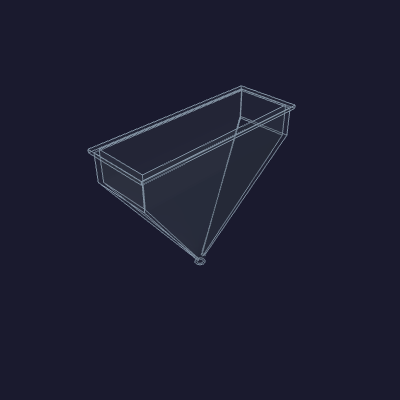
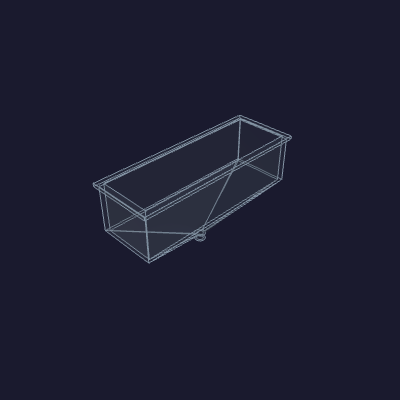
lite: repack to less-X/more-Y, 514 mL funnel, fixes; drop lite coupons
Resolves the feedback on the repack:
  * Funnel: was a 603 mL cone whose ramp plunged 115 mm toward the floor. Now a
    tall vertical chute + a SHORT 35 mm ramp necking to a centered spout that
    exits high (z211, well above the low short trays); a flex tube carries the
    pour down to V-B. 514 mL buffer (>440 mL), only 89 mm tall.
  * Coupons: removed from Lite entirely (enclosure.py + STEP/PNG files) — the
    Kitchen coupons cover the shared split/boss mating geometry.
  * The +X dead strip is gone: the hopper +X edge now runs flush to the top-right
    corner pod (1 mm gap, was 8.5 mm).
  * Reservoir sits wholly inside (5 mm to the inner back wall) — the earlier
    "sticking out" was a stale STEP from the crashed coupon regen.

Layout (unchanged from the checkpoint, now consistent): side column gone —
source-select + the two pump ASSEMBLIES (elbow version) stand in the front zone,
power tray beside the reservoir on +X. Box 238x255 -> 215.5 x 345.1 x 305:
X -22, Y +90, the less-X/more-Y trade. front∩back=0, both halves fit the bed,
zero content clashes, funnel clears content + shell. Docs resynced.

Changed region(s): [[0.21, 0.21, 0.75, 0.66]]

diff --git a/pie-in-the-sky/lite/printed-parts/funnel/funnel.py b/pie-in-the-sky/lite/printed-parts/funnel/funnel.py
@@ -46,20 +46,20 @@ import enclosure as E
 brim_overhang = 3.0     # brim flange reach past the opening, all around
 brim_thickness = 3.0    # flange thickness, resting on the enclosure top
 collar_wall = 3.0       # straight press-fit collar wall (opening − bore)
-chute_h = 30.0          # straight rectangular chute height — brim top down to the ramp
-                        # start. Leaves the rest of the drop for a real funnel ramp.
-neck_dx = 0.0           # spout centered under the opening — nothing below the mouth
-                        # to dodge (only the front bag-circuit lid), so no offset
+chute_h = 48.0          # tall straight vertical chute below the brim — vertical
+                        # walls, the bulk of the pour buffer (not a deep cone).
+ramp_h = 35.0           # SHORT ramp from the chute bottom necking to the spout —
+                        # kept shallow so the funnel sits in the top of the box
+                        # instead of plunging a long cone toward the floor.
+neck_dx = 0.0           # spout centered under the opening
 spout_id = 6.35         # 1/4" outlet bore
 spout_wall = 2.0        # spout wall at the tip
-spout_tube = 6.0        # straight spout tube below the ramp tip — its length sets
-                        # how far the Ø6.35 exit drops toward V-B
+spout_tube = 6.0        # straight spout tube below the ramp neck (the barb stub)
 tip_clearance = 1.0     # gap left above the tallest content under the mouth
-# The spout exits into the open air ABOVE the front trays (the whole mouth
-# footprint has content under it — the front bag-circuit lid — so there is no
-# clear column to drop into, unlike the Kitchen). Leave room below the exit for a
-# tube/barb fitting and the flex-tube run back to V-B — but not so much that the
-# ramp is squeezed out.
+# The spout exits HIGH above the content (the chute + short ramp set its height);
+# a flexible tube then carries the Ø6.35 exit the rest of the way down to V-B. This
+# gap is only the minimum the exit must keep clear of whatever sits beneath the
+# mouth — a sanity floor, not the thing that places the spout.
 spout_fitting_gap = 8.0
 
 
@@ -112,16 +112,21 @@ def build():
     top_z = oz1 + brim_thickness                       # brim top = outermost point
     spout_or = spout_id / 2.0 + spout_wall
     ncx = cx + neck_dx                                 # spout/neck, shifted in X
-    ramp_top_z = top_z - chute_h                        # straight chute bottom = ramp start
 
-    # The ramp necks to the round spout, whose straight tube exits a fitting-gap
-    # above the tallest content under the mouth (read live), leaving open air for a
-    # tube/barb to attach; a flexible tube then carries the Ø6.35 exit on toward V-B.
-    end_z = _content_top(x0, x1, y0, y1) + spout_fitting_gap
-    neck_z = end_z + spout_tube            # the round neck, one tube-length up
+    # Top-down: brim, tall vertical chute, SHORT ramp necking to the centered
+    # spout, short spout tube. The spout exits high (set by chute_h + ramp_h, not
+    # by the content), so the funnel stays in the top of the box; a flex tube
+    # carries the pour down to V-B.
+    ramp_top_z = top_z - chute_h           # straight chute bottom = ramp start
+    neck_z = ramp_top_z - ramp_h           # ramp bottom = round spout neck
+    end_z = neck_z - spout_tube            # spout exit
+    floor = _content_top(x0, x1, y0, y1) + spout_fitting_gap
+    assert end_z >= floor, (
+        f"funnel spout z={end_z:.0f} below content clearance {floor:.0f} — "
+        "raise chute_h/ramp_h or lower the content beneath the mouth")
 
-    # Outer: brim flange, a tall straight rectangular chute, a shallow ramp down to
-    # the +X-offset spout, straight spout tube.
+    # Outer: brim flange, a tall straight rectangular chute, a short ramp down to
+    # the centered spout, straight spout tube.
     solid = (
         _box(w + 2.0 * brim_overhang, d + 2.0 * brim_overhang, oz1, top_z, cx, cy)
         .fuse(_box(w, d, ramp_top_z, oz1, cx, cy))

diff --git a/pie-in-the-sky/lite/enclosure/enclosure.py b/pie-in-the-sky/lite/enclosure/enclosure.py
@@ -326,8 +326,8 @@ def _hopper_hole(inner, outer):
     x1 = pod_in - 1.0                                        # flush to the top-right corner pod
     x0 = ox0 + display_facet_x + wall                        # just past the facet gusset
     bag = _contents.build()["bag-circuit"][0].BoundingBox()
-    if bag.xmax + 3.0 < x1:                                  # clear the tall bag tray when it falls in span
-        x0 = max(x0, bag.xmax + 3.0)                         # (skipped on the reduced coupon box)
+    if bag.xmax + 3.0 < x1:                                  # clear the tall bag tray when it
+        x0 = max(x0, bag.xmax + 3.0)                         # falls within the opening span
     _a, _n, _o, dy, _dz = _facet_geom(outer)
     y_joint = max(oy0 + dy + display_facet_thickness * math.sqrt(2.0) + 2.0, split_y)
     y1 = y_joint - wall - 2.0                                # just in front of the seam lip
@@ -492,19 +492,6 @@ def _y_boss(y_joint):
     return y_joint + plug_dia / 2.0
 
 
-def coupon_dims():
-    """Dims for the front-half test-print coupon — a reduced-size box carrying
-    every feature (display housing, telescoping lip, the four corner bosses, the
-    full-depth ribs) at full size."""
-    ix0, ix1 = 0.0, 150.0          # facet 119.5 flush-left, right boss clear
-    iy0, iy1 = 0.0, 122.0          # back coupon's depth behind the joint
-    iz0, iz1 = 0.0, 110.0
-    y_joint = 85.0                 # lip + rear bosses sit behind the housing
-    inner = (ix0, ix1, iy0, iy1, iz0, iz1)
-    outer = (ix0 - wall, ix1 + wall, iy0 - wall, iy1 + wall, iz0 - wall, iz1 + wall)
-    return inner, outer, y_joint, None
-
-
 def build_front_half(dims=None):
     inner, outer, y_joint, _ = dims if dims is not None else _dims()
     shell = _shell_with_facet(inner, outer).val()
@@ -606,26 +593,14 @@ def main():
     assy.add(front, name="enclosure_front", color=cq.Color(0.80, 0.84, 0.90))
     assy.add(back, name="enclosure_back", color=cq.Color(0.70, 0.74, 0.82))
 
-    coupon = build_front_half(coupon_dims())
-    coupon_back = build_back_half(coupon_dims())
-
     export_step(front, str(_here.parent / "enclosure-front.step"))
     export_step(back, str(_here.parent / "enclosure-back.step"))
     export_assembly(assy, str(_here.parent / "enclosure.step"))
-    export_step(coupon, str(_here.parent / "enclosure-front-coupon.step"))
-    export_step(coupon_back, str(_here.parent / "enclosure-back-coupon.step"))
     print("-> enclosure-front.step")
     print("-> enclosure-back.step")
     print("-> enclosure.step (assembled halves)")
-    print("-> enclosure-front-coupon.step (test print)")
-    print("-> enclosure-back-coupon.step (test print)")
     _report_facet(front)
     _report_split(front, back)
-    for tag, c in (("front coupon", coupon), ("back coupon", coupon_back)):
-        b = c.val().BoundingBox()
-        print(f"  {tag}:     {b.xlen:.0f}×{b.ylen:.0f}×{b.zlen:.0f} mm, {len(c.val().Solids())} solid")
-    cpair = coupon.val().intersect(coupon_back.val()).Volume()
-    print(f"  coupon ∩:         {cpair:.1f} mm³  ({'CLEAR slip-fit' if cpair < 5 else 'INTERFERENCE'})")
 
     inner, outer, _yj, _cf = _dims()
     ox0, ox1, oy0, oy1, oz0, oz1 = outer

diff --git a/pie-in-the-sky/lite/assembly.md b/pie-in-the-sky/lite/assembly.md
@@ -44,11 +44,11 @@ Unlike the carbonator and Kitchen-reservoir float rods, this is a **tool-free ha
 
 ### 3. Build and stack the valve manifold
 
-Assemble the four manifold trays — source-select, bag-circuit, bib-gate, nozzle-gate — the same tray assemblies as the Kitchen build ([`valve-manifold/`](/hardware/printed-parts/valve-manifold/)), populated with the Beduan solenoids and John Guest dividers / tees / stem-barbs from [`lite-bom.md`](/pie-in-the-sky/lite/lite-bom.md). Stack bib-gate and nozzle-gate flat in the front-left corner under the display, lay bag-circuit flat across the front-zone top, and stand source-select vertical in the +X column beside the reservoir (under the hopper), per [`_contents.py`](/pie-in-the-sky/lite/enclosure-assembly/_contents.py).
+Assemble the four manifold trays — source-select, bag-circuit, bib-gate, nozzle-gate — the same tray assemblies as the Kitchen build ([`valve-manifold/`](/hardware/printed-parts/valve-manifold/)), populated with the Beduan solenoids and John Guest dividers / tees / stem-barbs from [`lite-bom.md`](/pie-in-the-sky/lite/lite-bom.md). All four stand vertical (long axis up) in the front zone ahead of the reservoir: source-select and bag-circuit side by side in the back band against the split, bib-gate and nozzle-gate nose-to-tail in the front-right under the hopper, kept low so the funnel above clears a tall chute — per [`_contents.py`](/pie-in-the-sky/lite/enclosure-assembly/_contents.py).
 
 ### 4. Mount the pumps
 
-Seat the two Kamoer KPHM400 pumps in their printed cases, stacked one above the other in the back of the +X column behind source-select (the +Y space the reservoir does not reach) — keeping them off the front zone so the cabinet stays narrow. They are reached by separating the back half / lifting source-select, per [`_contents.py`](/pie-in-the-sky/lite/enclosure-assembly/_contents.py).
+Seat the two Kamoer KPHM400 pumps (the full pump assemblies, with their 90° outlet elbows) stacked one above the other in the front-left of the front zone, turned a quarter-turn so the elbow span runs in X and the shallower depth in Y — a single narrow footprint, the long trays standing just behind them. Per [`_contents.py`](/pie-in-the-sky/lite/enclosure-assembly/_contents.py).
 
 ### 5. Plumb the flavor circuit
 
@@ -56,11 +56,11 @@ Run the clear-PVC and LLDPE lines per [`fluid-topology-manifold.mmd`](/pie-in-th
 
 ### 6. Mount the funnel
 
-Drop the funnel into the top-wall opening to the right of the display — brim resting on the lid, collar press-fit in the opening — its spout necking above the front trays, where a short flexible tube carries the pour back to V-B on source-select (the spout does not land on V-B directly, same as the Kitchen hopper). Geometry: [`funnel/README.md`](/pie-in-the-sky/lite/printed-parts/funnel/README.md).
+Drop the funnel into the narrow-X, deep-Y top-wall slot to the right of the display — brim resting on the lid, collar press-fit in the opening. Its tall chute holds the pour buffer; a short ramp necks to a centered spout that exits high above the short trays, where a flexible tube carries the pour down to V-B on source-select (the spout does not land on V-B directly, same as the Kitchen hopper). Geometry: [`funnel/README.md`](/pie-in-the-sky/lite/printed-parts/funnel/README.md).
 
 ### 7. Wire the electronics
 
-Mount the 12 V supply + AC distribution on the [power tray](/pie-in-the-sky/lite/printed-parts/electronics/power-tray/) (Mean Well PSU + Wagos + ground stack, no relay) — it stands vertical as a side-wall panel in the front-left corner. Mount the ESP32, MCP23017 expander, ULN2803A drivers, and motor driver, and wire everything to the two pumps, the manifold solenoids, the Waveshare 4.3″ config display, and the air switch — the same parts family and dispense logic as the main appliance, minus every sensor the Lite omits (no level reeds, no moisture telltale). The logic/driver-board tray is still undesigned (see Open items).
+Mount the 12 V supply + AC distribution on the [power tray](/pie-in-the-sky/lite/printed-parts/electronics/power-tray/) (Mean Well PSU + Wagos + ground stack, no relay) — it stands vertical beside the reservoir on the +X side, the one part thin enough to share the reservoir's depth band, its 40.5 mm depth all it costs in width. Mount the ESP32, MCP23017 expander, ULN2803A drivers, and motor driver, and wire everything to the two pumps, the manifold solenoids, the Waveshare 4.3″ config display, and the air switch — the same parts family and dispense logic as the main appliance, minus every sensor the Lite omits (no level reeds, no moisture telltale). The logic/driver-board tray is still undesigned (see Open items).
 
 ### 8. Install the faucet and through-counter UI
 

diff --git a/pie-in-the-sky/lite/enclosure/README.md b/pie-in-the-sky/lite/enclosure/README.md
@@ -13,12 +13,9 @@ reservoir-pockets box is the heavy back-bottom anchor the box is sized around.
 
 `enclosure.py` exports the two printable halves (`enclosure-front.step`,
 `enclosure-back.step`) plus `enclosure.step` — the two halves as separate solids
-in assembled position, seams intact (mirrors `faucet/touch-flo-shell`). It also
-exports two test-print coupons over a shared mating geometry:
-`enclosure-front-coupon.step`, a reduced-size front half carrying every feature
-at full size (the display housing, the telescoping lip, the four corner bosses,
-the ribs), and `enclosure-back-coupon.step`, the matching back half — its mouth,
-four plugs, and screw bores aligned to the front coupon's lip and sockets.
+in assembled position, seams intact (mirrors `faucet/touch-flo-shell`). (The Lite
+carries no test-print coupons; the [Kitchen edition coupons](/hardware/printed-parts/enclosure/enclosure/)
+cover the shared split/boss mating geometry.)
 
 ## Frame
 
@@ -81,31 +78,33 @@ originally sketched.
 
 ## Hopper opening
 
-A rectangular opening is punched through the top wall to the right of the
-display housing and flush to the front, where the removable hopper
+A **narrow-X, deep-Y slot** is punched through the top wall to the right of the
+display housing, where the removable hopper
 [funnel](/pie-in-the-sky/lite/printed-parts/funnel/) drops in — its brim resting
-on the top, its collar press-fitting the opening. The opening is sized to the
-room right of the display; its +X edge is clamped clear of the top-right corner
-pod. The funnel derives its collar from the same rectangle (`_hopper_hole`), so
-the two always match.
+on the top, its collar press-fitting the opening. The −X edge sits just right of
+the tall bag-circuit tray (so the funnel chute clears it); the +X edge runs flush
+to the top-right corner pod (no dead strip of wall); the slot reaches the full
+front-half depth back to the seam lip. The short trays beneath it are kept low,
+so the deep slot has a tall clear chute for a big pour buffer. The funnel derives
+its collar from the same rectangle (`_hopper_hole`), so the two always match.
 
 ## Dimensions
 
 Outer envelope [215.5 mm](LITE_OUTER_X) × [345.1 mm](LITE_OUTER_Y) × [305 mm](LITE_OUTER_Z)
-(X × Y × Z) — smaller than the Kitchen edition (289 × 342 × 310) on every axis,
-because the Lite carries no cold core or refrigeration depth. Read live from the
-contents placed by `../enclosure-assembly/_contents.py`, so any move in the
-contents propagates.
+(X × Y × Z) — narrower and shorter than the Kitchen edition (289 × 342 × 310) in
+X and Z, but a touch deeper in Y: with no side column beside the reservoir, the
+trays and pumps pack into a deep front zone instead, trading width for depth.
+Read live from the contents placed by `../enclosure-assembly/_contents.py`, so any
+move in the contents propagates.
 
 ## Regenerate
 
 The enclosure sizes itself from the contents bbox:
 
 `tools/cad-venv/bin/python pie-in-the-sky/lite/enclosure/enclosure.py`
-→ `enclosure-front.step`, `enclosure-back.step`, `enclosure.step`, the two
-coupons. Wall, split, boss, and facet constants are at the top of `enclosure.py`.
-Prints the facet size, each half's envelope vs. the H2C bed, and the
-reservoir/boss clearance.
+→ `enclosure-front.step`, `enclosure-back.step`, `enclosure.step`. Wall, split,
+boss, and facet constants are at the top of `enclosure.py`. Prints the facet size,
+each half's envelope vs. the H2C bed, and the reservoir/boss clearance.
 
 ## Sources
 [value](NAME) texts are updated by:

diff --git a/pie-in-the-sky/lite/printed-parts/funnel/README.md b/pie-in-the-sky/lite/printed-parts/funnel/README.md
@@ -3,13 +3,13 @@
 The removable hopper you pour SodaStream concentrate into. It drains to **V-B**
 on the [source-select tray](/hardware/printed-parts/valve-manifold/source-select-tray/)
 — fluid topology [segment 4](/hardware/topology/fluid-topology.md),
-"Hopper funnel bottom → V-B-I". A **pour-through guide**, not a batch reservoir:
-what you pour gets pumped straight on to a bag.
+"Hopper funnel bottom → V-B-I". A **pour buffer** holding ≈ [514 mL](HOPPER_CAP)
+to the brim — generous enough to take a full pour at once while the pump draws it
+on to a bag.
 
-The same idiom as the Kitchen edition's
-[hopper funnel](/hardware/printed-parts/zone-c/hopper-funnel/): it seats in the
-top-wall opening to the **right of the display**, cut by the enclosure via
-`_hopper_hole`, so the collar always matches the hole.
+The Kitchen edition's [hopper funnel](/hardware/printed-parts/zone-c/hopper-funnel/)
+turned a quarter-turn: a **narrow-X, deep-Y slot** to the **right of the display**,
+cut by the enclosure via `_hopper_hole`, so the collar always matches the hole.
 
 ## Shape
 
@@ -19,17 +19,16 @@ opening:
 - **Brim.** A flat flange overhanging the opening 3 mm all around, resting on the
   enclosure top surface.
 - **Chute.** A tall straight rectangular section — vertical walls, no slope —
-  [30 mm](HOPPER_CHUTE) from the brim top down to where the ramp starts. Its top
-  press-fits the [3 mm](WALL) top wall; the rest hangs down into the reserve as a
-  straight rectangular drop.
-- **Ramp + spout.** Below the chute a shallow ramp narrows to a round
-  [6.35 mm](SPOUT_ID) spout (1/4", matching the pump tubing), offset toward the
-  source-select side. The spout exits into the open air above the tallest
-  content below the mouth (read live — the front bag-circuit tray), with room
-  left below for a tube/barb fitting; a short flexible tube then carries the pour
-  on to V-B (the spout does not land on V-B directly, same as the Kitchen
-  hopper). Total drop [151 mm](HOPPER_DROP) below the brim; capacity to the brim
-  rim ≈ [603 mL](HOPPER_CAP).
+  [48 mm](HOPPER_CHUTE) from the brim top down to where the ramp starts. Its top
+  press-fits the [3 mm](WALL) top wall; the rest hangs down as a straight
+  rectangular drop holding the bulk of the buffer.
+- **Ramp + spout.** Below the chute a **short** ramp necks to a centered round
+  [6.35 mm](SPOUT_ID) spout (1/4", matching the pump tubing). The spout exits
+  **high** — its height set by the chute + ramp, well above the short trays
+  beneath the mouth — so the funnel sits in the top of the box rather than
+  plunging a deep cone toward the floor; a flexible tube then carries the pour
+  the rest of the way down to V-B (the spout does not land on V-B directly, same
+  as the Kitchen hopper). Total drop [89 mm](HOPPER_DROP) below the brim.
 
 The chute footprint is taken from the enclosure's opening rectangle
 (`enclosure.py` `_hopper_hole`), so the funnel and hole always match.
